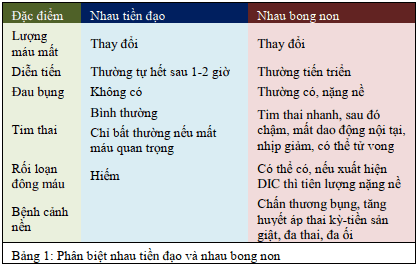
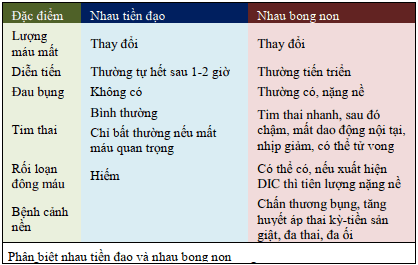
23-12-20

Changed region(s): [[0.0, 0.9358, 0.6842, 0.9962]]

diff --git a/src/content/docs/benh-hoc-san-khoa/rau-tien-dao.md b/src/content/docs/benh-hoc-san-khoa/rau-tien-dao.md
@@ -1,35 +1,35 @@
 ---
 title: Rau tiền đạo
 description: Rau tiền đạo.
-lastUpdated: 2023-11-12
+lastUpdated: 2023-12-20
 ---
 
-Nhau tiền đạo (Placenta Previa) là một vấn đề lớn mà các nhà sản khoa phải đối mặt, do những thai phụ với nhau tiền đạo có thể phải được nằm bệnh viện theo dõi dài hạn, tăng nguy cơ truyền máu, sinh non, tỉ lệ cắt tử cung vì băng huyết tăng cao (đến 5.3%), dẫn đến tử suất của mẹ cao.
+Rau tiền đạo (Placenta Previa) là 1 vấn đề lớn mà các nhà sản khoa phải đối mặt, do những thai phụ với rau tiền đạo có thể phải được nằm bệnh viện theo dõi dài hạn, tăng nguy cơ truyền máu, sinh non, tỉ lệ cắt tử cung vì băng huyết tăng cao (đến 5.3%), dẫn đến tử suất của mẹ cao.
 
 ## Định nghĩa
 
-Nhau tiền đạo được định nghĩa là khi nhau bám ở đoạn dưới tử cung mà không bám ở vị trí bình thường của nó.
+Rau tiền đạo được định nghĩa là khi rau bám ở đoạn dưới tử cung mà không bám ở vị trí bình thường của nó.
 
 ## Phân loại
 
 Phân loại rau tiền đạo
 
-1. Nhau tiền đạo toàn phần (trung tâm) (complete) khi bánh nhau bám lan tới và che hết cổ trong cổ tử cung.
-2. Nhau tiền đạo một phần (bán phần) (partial) khi bánh nhau chỉ bám qua một phần lổ trong cổ tử cung.
-3. Nhau bám mép (marginal) khi mép dưới của bánh nhau bám sát tới bờ lổ cổ tử cung.
-4. Nhau bám thấp (low lying) là khi bánh nhau bám ở đoạn dưới của tử cung nhưng mép dưới của nó chưa lan tới lổ trong cổ tử cung.
+1. Rau tiền đạo toàn phần (trung tâm) (complete) khi bánh rau bám lan tới và che hết cổ trong cổ tử cung.
+2. Rau tiền đạo 1 phần (bán phần) (partial) khi bánh rau chỉ bám qua 1 phần lỗ trong cổ tử cung.
+3. Rau bám mép (marginal) khi mép dưới của bánh rau bám sát tới bờ lỗ cổ tử cung.
+4. Rau bám thấp (low lying) là khi bánh rau bám ở đoạn dưới của tử cung nhưng mép dưới của nó chưa lan tới lỗ trong cổ tử cung.
 
 ![Phân loại rau tiền đạo](../../../assets/benh-hoc-san-khoa/rau-tien-dao/phan-loai-rau-tien-dao.png)
 
-Siêu âm đầu dò âm đạo phân loại nhau tiền đạo dùng đơn vị là milimet (mm) để miêu tả khoảng cách giữa mép bánh nhau và lổ cổ trong cổ tử cung.
+Siêu âm đầu dò âm đạo phân loại rau tiền đạo dùng đơn vị là milimet (mm) để miêu tả khoảng cách giữa mép bánh rau và lỗ cổ trong cổ tử cung.
 
-- Trong trường hợp mép bánh nhau nằm ngay ở lổ trong cổ tử cung thì khoảng cách này được mô tả là 0 mm.
-- Nếu mép bánh nhau bám chưa lan tới lổ trong cổ tử cung thì sẽ mô tả khoảng cách từ lổ trong cổ tử cung đến mép bánh nhau.
-- Khi mép bánh nhau bám lan qua lổ trong cổ tử cung thì mô tả khoảng mà mép bánh nhau đã bám lan qua lổ cổ tử cung.
+- Trong trường hợp mép bánh rau nằm ngay ở lỗ trong cổ tử cung thì khoảng cách này được mô tả là 0 mm.
+- Nếu mép bánh rau bám chưa lan tới lỗ trong cổ tử cung thì sẽ mô tả khoảng cách từ lỗ trong cổ tử cung đến mép bánh rau.
+- Khi mép bánh rau bám lan qua lỗ trong cổ tử cung thì mô tả khoảng mà mép bánh rau đã bám lan qua lỗ cổ tử cung.
 
 ## Yếu tố nguy cơ
 
-Nhau tiền đạo ở thai kỳ trước.
+Rau tiền đạo ở thai kỳ trước.
 
 Sinh nhiều lần.
 
@@ -41,50 +41,120 @@ Các yếu tố khác như sử dụng cocaine, hút thuốc lá.
 
 ## Chẩn đoán
 
-Vị trí bám của bánh nhau sẽ thay đổi cùng với tiến trình lớn lên của thai nhi. **Chỉ được phép xác lập chẩn đoán nhau tiền đạo kể từ sau khi tuổi thai đạt 28 tuần lễ tròn vô kinh.**
+### Lâm sàng
 
-Theo nghiên cứu, khảo sát mép bánh nhau bám lan qua lổ trong cổ tử cung **23 mm ở tuổi thai 11-14 tuần** thấy chỉ có khoảng 8% số này là có nhau tiền đạo lúc sinh. Nếu mép bánh nhau bám lan qua lổ trong cổ tử cung với khoảng cách **nhỏ hơn 10 mm ở tuổi thai 9-16 tuần** thì rất ít khả năng xuất hiện nhau tiền đạo sau đó. Nhau tiền đạo **gần như bằng 0 nếu khảo sát trước đó cho thấy mép bánh nhau chưa lan qua lổ trong cổ tử cung**. Nếu mép bánh nhau vượt qua lổ trong cổ tử cung với **khoảng cách lớn hơn 25 mm** thì khả năng có nhau tiền đạo lúc sinh là rất lớn, đạt đến 40-100%.
+#### Cơ năng
+
+**Không có triệu chứng đặc biệt, chỉ có thể phát hiện qua siêu âm.**
+
+**Ra huyết âm đạo đột ngột,** lượng thay đổi, không kèm đau bụng trong **3 tháng giữa hoặc 3 tháng cuối.**
+
+Tử cung mềm, không đau căng (phân biệt với rau bong non và vỡ tử cung).
+
+#### Thực thể
+
+Ngôi bất thường (ngôi ngang, ngôi mông), ngôi đầu cao.
+
+Tim thai không thay đổi, bất thường khi có choáng mất máu, bóc tách bánh rau hay biến chứng dây rốn.
+
+**Đặt mỏ vịt thấy máu đỏ tươi từ lỗ trong cổ tử cung.**
+
+Khám âm đạo chỉ thực hiện tại phòng mổ khi có huyết ra nhiều hoặc cần chấm dứt thai kỳ. **Các trường hợp khác không khám âm đạo.**
+
+### Cận lâm sàng
+
+Siêu âm xác định vị trí bám của bánh rau sẽ thay đổi cùng với tiến trình lớn lên của thai nhi. **Chỉ được phép xác lập chẩn đoán rau tiền đạo kể từ sau khi tuổi thai đạt 28 tuần lễ tròn vô kinh.**
 
 Siêu âm đầu dò âm đạo là công cụ giúp chẩn đóan rau tiền đạo.
 
-Cộng hưởng từ (MRI) có thể có ích trong khảo sát nhau cài răng lược.
+Cộng hưởng từ (MRI) có thể có ích trong khảo sát rau cài răng lược.
+
+Soi bàng quang khi nghi ngờ rau cài răng lược xâm lấn bàng quang qua chẩn đoán hình ảnh kèm tiểu máu.
+
+_Theo nghiên cứu, khảo sát mép bánh rau bám lan qua lỗ trong cổ tử cung 23 mm ở tuổi thai 11-14 tuần thấy chỉ có khoảng 8% số này là có rau tiền đạo lúc sinh. Nếu mép bánh rau bám lan qua lỗ trong cổ tử cung với khoảng cách nhỏ hơn 10 mm ở tuổi thai 9-16 tuần thì rất ít khả năng xuất hiện rau tiền đạo sau đó. Rau tiền đạo gần như bằng 0 nếu khảo sát trước đó cho thấy mép bánh rau chưa lan qua lỗ trong cổ tử cung. Nếu mép bánh rau vượt qua lỗ trong cổ tử cung với khoảng cách lớn hơn 25 mm thì khả năng có rau tiền đạo lúc sinh là rất lớn, đạt đến 40-100%._
 
 ## Bệnh sinh
 
-**Xuất huyết âm đạo trong 3 tháng cuối thai kỳ không kèm theo đau bụng** là một dấu hiệu điển hình của nhau tiền đạo.
+**Xuất huyết âm đạo trong 3 tháng cuối thai kỳ không kèm theo đau bụng** là 1 dấu hiệu điển hình của rau tiền đạo.
 
-**Máu chảy ra** ngoài trong nhau tiền đạo là **máu mẹ**.
+**Máu chảy ra** ngoài trong rau tiền đạo là **máu mẹ**. Đợt chảy máu âm đạo đầu tiên thường tự ổn định trong vòng 1-2 giờ, nếu như nó không quá nghiêm trọng để có chỉ dịnh chấm dứt thai kỳ. Nếu chảy máu là trầm trọng hoặc thai nhi đã trưởng thành thì chấm dứt thai kỳ là lựa chọn. **Số đợt xuất hiện chảy máu không có mối liên quan đến độ nặng của rau tiền đạo cũng như kết cục của thai nhi.**
 
-**Khả năng tự cầm máu sau sinh của cuộc sinh với nhau tiền đạo rất kém.** Cơ chế cầm máu bình thường sau sổ nhau trong các trường hợp nhau bám ở thân tử cung là do các thớ **cơ đan chéo** siết chặt các mạch máu bị hở ra sau sinh ở các hồ máu. Trong nhau tiền đạo, do các hồ máu có vị trí là ở đoạn dưới tử cung, **không có các lớp cơ đan chéo**, nên các mạch máu này không được siết lại sau khi sinh.
+**Khả năng tự cầm máu sau sinh của cuộc sinh với rau tiền đạo rất kém.** Cơ chế cầm máu bình thường sau sổ rau trong các trường hợp rau bám ở thân tử cung là do các thớ **cơ đan chéo** siết chặt các mạch máu bị hở ra sau sinh ở các hồ máu. Trong rau tiền đạo, do các hồ máu có vị trí là ở đoạn dưới tử cung, **không có các lớp cơ đan chéo**, nên các mạch máu này không được siết lại sau khi sinh.
 
 **Phân biệt ra máu 3 tháng cuối thai kỳ giữa rau tiền đạo, rau bong non và vỡ tử cung.** Vỡ tử cung có những dấu hiệu riêng. Có thể chẩn đoán phân biệt rau tiền đạo và rau bong non qua bảng sau:
 
 ![Phân biệt rau tiền đạo và rau cài răng lược](../../../assets/benh-hoc-san-khoa/rau-tien-dao/phan-biet-rau-tien-dao-va-rau-cai-rang-luoc.png)
 
-## Rau cài răng lược
-
-**Nhau cài răng lược** là trường hợp bánh nhau bám sâu một cách bất thường vào thành cơ của tử cung. Nhau cài răng lược làm tăng nguy cơ chảy máu, và là mối đe dọa đến sinh mạng của thai phụ.
-
-Nhau cài răng lược được phân ra:
-
-- Kiểu accreta, nếu mô nhau bám tới lớp nông của cơ tử cung.
-- Kiểu increta, mô nhau bám sâu vào trong cơ tử cung.
-- Kiểu percreta, mô nhau bám xuyên qua cơ tử cung tới thanh mạc hoặc thỉnh thoảng lan tới bàng quang nằm kế cận.
-
-![Phân loại rau cài răng lược](../../../assets/benh-hoc-san-khoa/rau-tien-dao/phan-loai-rau-cai-rang-luoc.png)
-
-Tỉ lệ nhau cài răng lược vào khoảng 1:2500 thai kỳ, nhưng tăng mạnh nếu thai phụ có tiền căn mổ lấy thai trước đó.
-
-## Diễn biến
-
-Phải sinh mổ: Nếu khảo sát ở tuổi thai trên 35 tuần cho thấy mép bánh nhau bám chưa đến lổ cổ tử cung và khoảng cách này trên 20 mm.
-
-Chảy máu: Đợt chảy máu âm đạo đầu tiên thường tự ổn định trong vòng 1-2 giờ, nếu như nó không quá nghiêm trọng để có chỉ dịnh chấm dứt thai kỳ. Nếu chảy máu là trầm trọng hoặc thai nhi đã trưởng thành thì chấm dứt thai kỳ là lựa chọn. **Số đợt xuất hiện chảy máu không có mối liên quan đến độ nặng của nhau tiền đạo cũng như kết cục của thai nhi.**
+## Xử trí
 
 Quyết định chấm dứt thai kỳ phải dựa vào tuổi thai và tình trạng lâm sàng của thai phụ. Trong điều kiện bệnh nhân ổn định, **mổ lấy thai thường được chỉ định ở tuổi thai 37-38 tuần**. Đôi khi phải chấm dứt thai kỳ **sớm hơn nếu chảy máu nhiều hoặc thai phụ đi vào chuyển dạ sinh non.**
 
-Về phương pháp vô cảm lúc mổ lấy thai: Trong phần lớn trường hợp, gây tê vùng là lựa chọn khi mổ lấy thai nhau tiền đạo. Tuy nhiên, trong trường hợp dự đoán cuộc mổ kéo dài hay khó khăn như trong trường hợp của nhau cài răng lược thì **gây mê nội khí quản** sẽ được chọn lựa.
+### Rau tiền đạo không triệu chứng
+
+Theo dõi và điều trị ngoại trú.
+
+Giảm nguy cơ chảy máu:
+
+- Kiêng giao hợp, không làm nặng, không tập thể dục sau tuần 20.
+- Không khám âm đạo.
+- Có cơn gò tử cung hoặc ra máu cần nhập viện ngay.
+
+Liệu pháp Corticosteroids từ tuần 28 đến trước 34 tuần.
+
+Mổ chủ động từ tuần thai 36-37.
+
+### Rau tiền đạo đang chảy máu
+
+#### Chảy máu ít, thai chưa trưởng thành
+
+Xác định độ trưởng thành phổi. Cố gắng dưỡng thai đến 32-34 tuần. Sau 34 tuần cần cân nhắc lợi ích giữa mẹ và thai với nguy cơ mất máu.
+
+Liệu pháp Corticosteroids từ tuần 28 đến trước 34 tuần.
+
+**Truyền máu khi Hb < 10 g/dL.**
+
+**Có thể xuất viện trong vòng 48 giờ không kèm theo yếu tố nguy cơ nào khác.**
+
+Chấm dứt thai kỳ:
+
+- **Có thể sinh đường âm đạo nếu rau bám thấp và ngôi đầu** nếu khảo sát ở tuổi thai trên 35 tuần cho thấy mép bánh rau bám chưa đến lỗ cổ tử cung và khoảng cách này trên 20 mm. Thai có thể thiếu oxy (suy thai) do rau bong non hay biến chứng dây rốn như sa dây rốn, chèn ép dây rốn. Nên cần theo dõi sát tim thai để mổ lấy thai ngay, ngoại trừ đang rặn sinh.
+- Mổ lấy thai trong các trường hợp khác.
+
+Cầm máu vị trí rau bám:
+
+- Dùng thuốc co hồi tử cung: Oxytocin, Carbetocin, Methylergotamine (maleat), Prostagladin.
+- Thắt động mạch tử cung khi cần.
+- Có thể phải cắt tử cung toàn phần đặc biệt trường hợp rau cài răng lược.
+
+#### Chảy máu âm đạo nhiều
+
+**Là cấp cứu sản khoa cần mổ lấy thai cấp cứu.**
+
+Cần lập 1-2 đường truyền tĩnh mạch. Truyền Ringer lactated hoặc NaCl 0.9% nhằm duy trì huyết động, có nước tiểu, ít nhất 30 mL/h.
+
+Xét nghiệm nhóm máu, dự trù 2-4 đơn vị máu. Truyền khi lượng máu mất quá 30% (xuất huyết độ III) hoặc Hb < 10 g/dL.
+
+Theo dõi huyết áp mẹ, nước tiểu mỗi giờ bằng sonde tiểu. Ước lượng máu mất bằng bằng vệ sinh.
+
+**Phương pháp vô cảm lúc mổ lấy thai:** Trong phần lớn trường hợp, gây tê vùng là lựa chọn khi mổ lấy thai rau tiền đạo. Tuy nhiên, trong trường hợp dự đoán cuộc mổ kéo dài hay khó khăn như trong trường hợp của rau cài răng lược thì **gây mê nội khí quản** sẽ được chọn lựa.
+
+## Biến chứng
+
+### Biến chứng mẹ
+
+Mất máu nhiều, choáng, tử vong.
+
+Cắt tử cung, tổn thương niệu quản.
+
+Tăng nguy cơ nhiễm trùng, rối loạn đông máu, phải truyền máu.
+
+### Biến chứng con
+
+Con non tháng gây tử vong chu sinh.
+
+Trẻ sơ sinh bị thiếu tháng.
 
 ## Nguồn tham khảo
 
 - TEAM-BASED LEARNING - Trường Đại học Y Dược Thành phố Hồ Chí Minh 2020.
+- PHÁC ĐỒ ĐIỀU TRỊ SẢN PHỤ KHOA 2022 - Bệnh viện Từ Dũ.

diff --git a/src/content/docs/benh-hoc-san-khoa/rau-cai-rang-luoc.md b/src/content/docs/benh-hoc-san-khoa/rau-cai-rang-luoc.md
@@ -1,0 +1,21 @@
+---
+title: Rau cài răng lược
+description: Rau cài răng lược.
+lastUpdated: 2023-12-20
+---
+
+Rau tiền đạo (Placenta Previa) là 1 vấn đề lớn mà các nhà sản khoa phải đối mặt, do những thai phụ với rau tiền đạo có thể phải được nằm bệnh viện theo dõi dài hạn, tăng nguy cơ truyền máu, sinh non, tỉ lệ cắt tử cung vì băng huyết tăng cao (đến 5.3%), dẫn đến tử suất của mẹ cao.
+
+## Rau cài răng lược
+
+**Rau cài răng lược** là trường hợp bánh rau bám sâu 1 cách bất thường vào thành cơ của tử cung. Rau cài răng lược làm tăng nguy cơ chảy máu, và là mối đe dọa đến sinh mạng của thai phụ.
+
+Rau cài răng lược được phân ra:
+
+- Kiểu accreta, nếu mô rau bám tới lớp nông của cơ tử cung.
+- Kiểu increta, mô rau bám sâu vào trong cơ tử cung.
+- Kiểu percreta, mô rau bám xuyên qua cơ tử cung tới thanh mạc hoặc thỉnh thoảng lan tới bàng quang nằm kế cận.
+
+![Phân loại rau cài răng lược](../../../assets/benh-hoc-san-khoa/rau-cai-rang-luoc/phan-loai-rau-cai-rang-luoc.png)
+
+Tỉ lệ rau cài răng lược vào khoảng 1:2500 thai kỳ, nhưng tăng mạnh nếu thai phụ có tiền căn mổ lấy thai trước đó.
